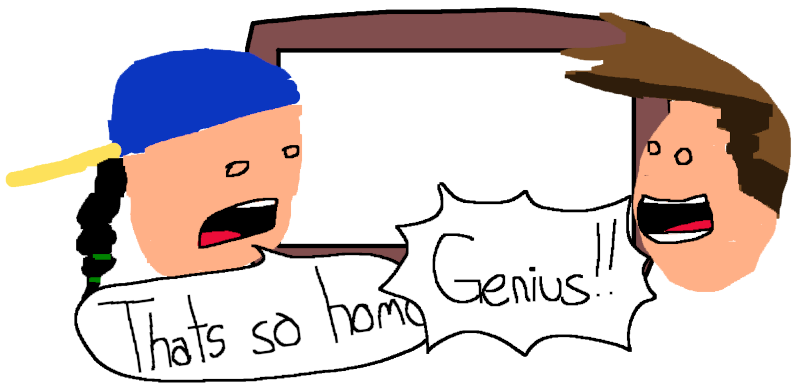
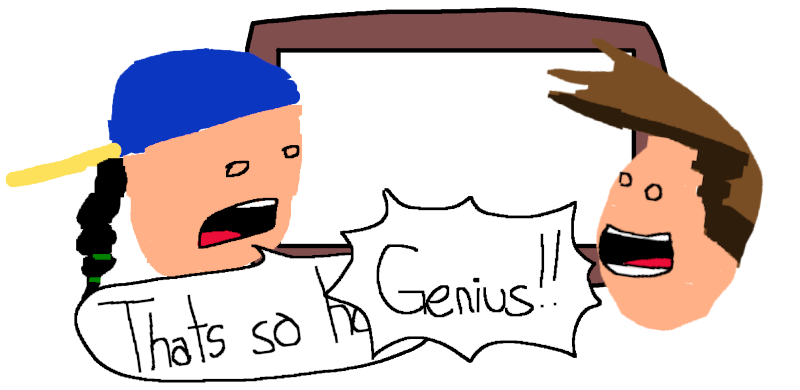
Added "the list"

Changed region(s): [[0.4062, 0.0308, 1.0, 0.9231]]

diff --git a/homogeniuses/templates/base.html b/homogeniuses/templates/base.html
@@ -1,5 +1,6 @@
 <!DOCTYPE html>
 <html lang="en">
+
 <head>
     <title>Homo-Geniuses{% block title %}{% endblock title %}</title>
     <meta name="description" content="An appreciation of gay inventors.">
@@ -7,36 +8,40 @@
     <meta charset="UTF-8">
     <link rel="stylesheet" href="/static/css/reset.css" />
     <link rel="stylesheet" href="/static/css/style.css" />
-    {% block head %}{% endblock head %} 
+    {% block head %}{% endblock head %}
 </head>
+
 <body>
     <header>
-        <h1><a href="{{ url_for('index') }}">Homo-Geniuses: an appreciation of gay inventors</a></h1>
+        <h1><a href="{{ url_for('faq') }}">Homo-Geniuses: an appreciation of gay inventors</a></h1>
     </header>
     <nav aria-label="Site navigation">
         <ul class="site-nav">
             <li><a href="{{ url_for('faq') }}">what is this place?</a></li>
+            <li><a href="{{ url_for('videos.video_list') }}">the list</a></li>
             <li><a href="{{ url_for('videos.no_video_id') }}">cast judgement</a></li>
             <li><a href="{{ url_for('videos.submit_clip') }}">submit clips</a></li>
             {% if not user.is_anonymous %}
-                <li>logged in as: <img src="{{ user.avatar }}" alt="Steam avatar for {{user.handle}}" width="24" height="24"/><a href="{{ url_for('auth.logout') }}">(jack out)</a></li>
+            <li>logged in as: <img src="{{ user.avatar }}" alt="Steam avatar for {{user.handle}}" width="24"
+                    height="24" /><a href="{{ url_for('auth.logout') }}">(jack out)</a></li>
             {% else %}
-                <li><a href="{{ url_for('auth.login') }}">sign in (via steam)</a></li>
+            <li><a href="{{ url_for('auth.login') }}">sign in (via steam)</a></li>
             {% endif %}
         </ul>
     </nav>
     <main class="">
         {% with messages = get_flashed_messages() %}
         {% if messages %}
-            <ul class=flashes>
+        <ul class=flashes>
             {% for message in messages %}
             <li>{{ message }}</li>
             {% endfor %}
-            </ul>
+        </ul>
         {% endif %}
         {% endwith %}
         {% block main %}{% endblock main %}
     </main>
     {% block script %}{% endblock script %}
 </body>
+
 </html>

diff --git a/homogeniuses/templates/videos/list_page.html b/homogeniuses/templates/videos/list_page.html
@@ -1,0 +1,44 @@
+{% extends 'base.html' %}
+
+{% block title %}: The List{% endblock %}
+
+{% block main %}
+
+<p>There are currently {{ all_videos|length }} submissions available for judgement. (## in queue awaiting approval)</p>
+
+<p>In total ## votes have been cast by ## users. (## homo votes and ## genius votes)</p>
+
+<h2>Certified Homo-Genius</h2>
+<p>Clips that are at least 90% homo-genius certified, and have more than 10 unique votes.</p>
+{% for video in homogenius_list %}
+<li><a href="{{ url_for('videos.video_page', video_id=video.video_id) }}">{{ video.video_id }}</a>: {{ video.total_votes
+    }}
+    votes, {{
+    '{:2.1f}'.format(100 - video.difference) }}% homo-genius
+</li>
+{% endfor %}
+
+
+<h2>Homo Ingenuity</h2>
+<p>Top 15 clips sorted by most homo ingenuity.</p>
+{% for video in homo_videos_list %}
+<li><a href="{{ url_for('videos.video_page', video_id=video.video_id) }}">{{ video.video_id }}</a>: {{ video.homo_votes
+    + video.genius_votes }} votes: {{
+    '{:03.1f}'.format((video.homo_votes/(video.homo_votes +
+    video.genius_votes)) * 100.0) }}% homo-magnificence</li>
+{% endfor %}
+
+<h2>Genuises at work</h2>
+<p>Top 15 clips of the biggest brain geniuses at work.</p>
+{% for video in genius_videos_list %}
+<li><a href="{{ url_for('videos.video_page', video_id=video.video_id) }}">{{ video.video_id }}</a>: {{ video.homo_votes
+    + video.genius_votes }} votes: {{
+    '{:03.1f}'.format((video.genius_votes/(video.homo_votes +
+    video.genius_votes)) * 100.0) }}% pure genius</li>
+{% endfor %}
+
+
+
+
+
+{% endblock %}

diff --git a/homogeniuses/templates/faq.html b/homogeniuses/templates/faq.html
@@ -12,10 +12,6 @@
     </video>
 </div>
 
-<h2 class=" golden">The Golden Rule:</h2>
-<p class="golden faq">If you're here to be a homophobic piece of shit I kindly suggest you Log Off and Get A
-    Life, for
-    everyone else, let's continue.</p>
 
 <h3>What am I looking at?</h3>
 <p class="faq">homo-geniuses is a website that allows users to submit clips from competitive games and then cast
@@ -28,6 +24,11 @@
     fighting
     games put together by <a href="https://www.youtube.com/@DandyDLC" title="DandyJ's YouTube channel">DandyJ</a>. Each
     of these clips represents a near perfect cross-section of decisions that are both genius and homo.</p>
+
+<h2 class=" golden">The Golden Rule:</h2>
+<p class="golden faq">If you're here to be a homophobic piece of shit I kindly suggest you Log Off and Get A
+    Life, for
+    everyone else, let's continue.</p>
 
 <h4>.... "homo"? wtf dude?</h4>
 <p class="faq">Yeah, I don't think I have any real clever way for this not to sound slightly offensive. All that

diff --git a/homogeniuses/videos.py b/homogeniuses/videos.py
@@ -75,11 +75,10 @@ def fetch_vote(steam_id, video_id) -> int:
 
 def get_all_videos() -> list[Video]:
     """Returns all videos currently in database"""
-    get_all_videos_sql = (
-        """SELECT rowid, video_id, homo_votes, genius_votes FROM videos;"""
-    )
+    get_all_videos_sql = """SELECT timestamp, video_id, homo_votes, genius_votes FROM videos ORDER BY timestamp ASC;"""
     all_videos = db.query_db(get_all_videos_sql)
     all_videos_list = [Video(*row) for row in all_videos]
+
     return all_videos_list
 
 
@@ -121,6 +120,38 @@ def random_video():
     return no_video_id(steam_id)
 
 
+@bp.route("/list")
+def video_list():
+    """The list of all clips submitted"""
+
+    all_videos = get_all_videos()
+
+    get_top_homo_vids_sql = """SELECT timestamp, video_id, homo_votes, genius_votes, homo_votes-genius_votes AS homo_score, homo_votes+genius_votes AS total_votes FROM videos WHERE total_votes > 10 ORDER BY homo_score DESC LIMIT 15;"""
+    get_top_genius_vids_sql = """SELECT timestamp, video_id, homo_votes, genius_votes, genius_votes-homo_votes AS genius_score, homo_votes+genius_votes AS total_votes FROM videos WHERE total_votes > 10 ORDER BY genius_score DESC LIMIT 15;"""
+    homogenius_vids_sql = """SELECT timestamp, video_id, homo_votes, genius_votes, homo_votes+genius_votes AS total_votes, (homo_votes*100.0)/(homo_votes+genius_votes) AS score, ABS(50.0-((homo_votes*100.0)/(homo_votes+genius_votes))) as difference FROM videos WHERE score >= 40 AND score <= 60 AND total_votes > 10 ORDER BY difference ASC;"""
+    get_all_videos_sql = """SELECT timestamp, video_id, homo_votes, genius_votes FROM videos ORDER BY timestamp ASC;"""
+    all_videos = db.query_db(get_all_videos_sql)
+    all_videos_list = [Video(*row) for row in all_videos]
+
+    homo_videos = db.query_db(get_top_homo_vids_sql)
+    homo_videos_list = list(homo_videos)
+
+    genius_videos = db.query_db(get_top_genius_vids_sql)
+    genius_videos_list = list(genius_videos)
+
+    homogenius_videos = db.query_db(homogenius_vids_sql)
+    homogenius_list = list(homogenius_videos)
+
+    return render_template(
+        "videos/list_page.html",
+        all_videos=all_videos,
+        user=flask_login.current_user,
+        homo_videos_list=homo_videos_list,
+        genius_videos_list=genius_videos_list,
+        homogenius_list=homogenius_list,
+    )
+
+
 def get_user_votes_for_video(steam_id, video_id):
     """Checks to see if a user can cast another vote on this video."""
     get_user_votes_sql = """SELECT * FROM votes WHERE steam_id = ? AND video_id = ?"""
@@ -152,9 +183,9 @@ def video_page(video_id):
     if hvotes == 0 and gvotes == 0:
         score = -1
     elif gvotes == 0:
-        score = 100
+        score = 100.0
     else:
-        score = (100 * hvotes) / (hvotes + gvotes)
+        score = (100.0 * hvotes) / (hvotes + gvotes)
 
     if score == -1:
         sentiment = "No votes yet, be the first!"

diff --git a/homogeniuses/db.py b/homogeniuses/db.py
@@ -87,7 +87,7 @@ def add_fake_votes():
     db = get_db()
     fake_votes = []
     for video in dummy_vids.homo_genius_og_vids:
-        fake_votes.append((random.randint(0, 100), random.randint(0, 100), video[0]))
+        fake_votes.append((random.randint(0, 10), random.randint(0, 10), video[0]))
     db.executemany(insert_votes_sql, fake_votes)
     db.commit()
 

diff --git a/homogeniuses/__init__.py b/homogeniuses/__init__.py
@@ -38,9 +38,6 @@ def create_app(test_config=None):
         return User(*user_vals) if user_vals else None
 
     @app.route("/")
-    def index():
-        return videos.no_video_id()
-
     @app.route("/faq")
     def faq():
         return render_template("faq.html", user=flask_login.current_user)
